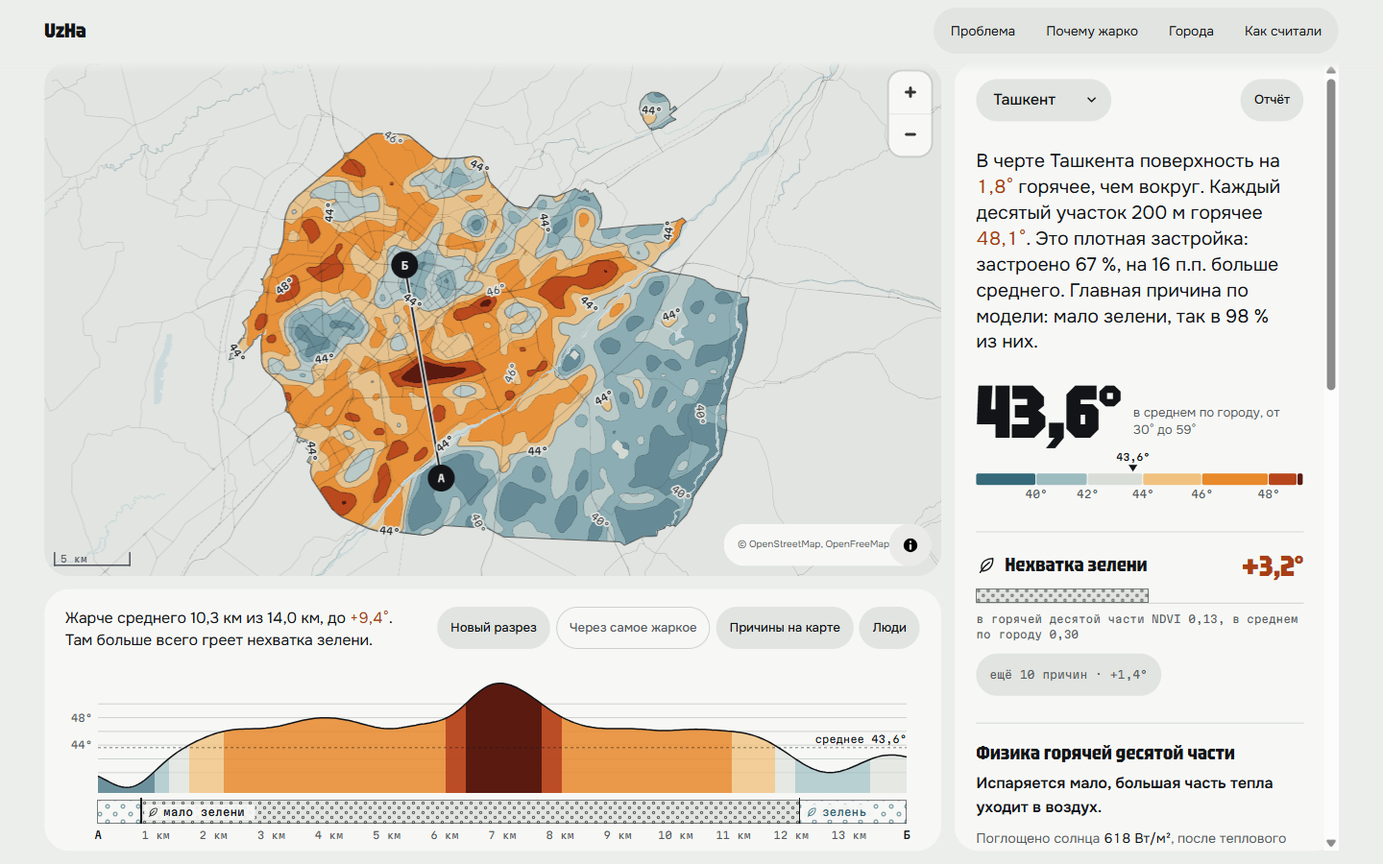
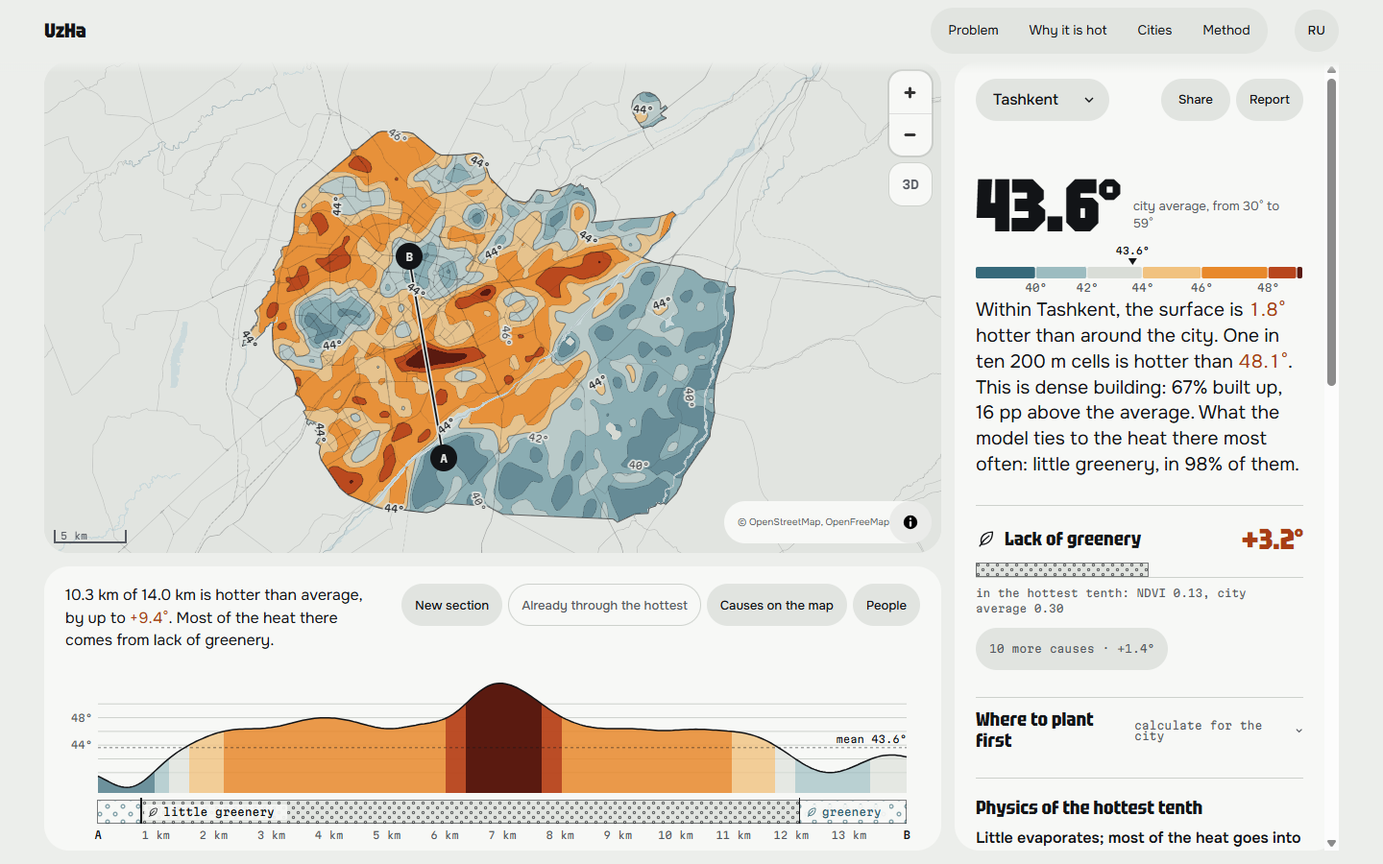
docs: English screenshots of the current site, Russian README in step with the English one

diff --git a/README.ru.md b/README.ru.md
@@ -2,126 +2,190 @@
 
 [English](README.md) · **Русский**
 
-Карта летнего перегрева Ташкента, Самарканда и Бухары по спутниковым снимкам Landsat 8/9 (NASA/USGS). Для каждого участка 200 × 200 м
-показывает, насколько там горячо, что именно греет это место и что с этим можно сделать, а в 3D показывает город, где каждый дом
-окрашен температурой поверхности под ним. Ползунки «что если» пересчитывают температуру участка той же моделью прямо в браузере.
+**Команда:** UzHa · **Задача:** Urban Heat Islands of Tashkent (Uzspace Hackathon 2026, GIS & AI)
 
 **Сайт:** https://uzha.mydevbox.xyz
 
-![Главная](docs/screenshots/00-landing.png)
+**Как посмотреть демо** (две минуты):
+1. Откройте https://uzha.mydevbox.xyz/map/tashkent?lang=ru и нажмите на любое цветное место на карте.
+2. На панели справа подвигайте ползунки «Что если»: модель города пересчитает это место.
+3. Нажмите «Весь город», затем «Где сажать первым»: пять мест, каждое открывается на карте.
+
+Карта летнего перегрева поверхности Ташкента; Самарканд и Бухара показывают, что метод переносится на другие города. Для каждого
+участка 200 × 200 м видно, насколько горячая поверхность, какие факторы греют или охлаждают это место и на сколько градусов,
+и что здесь можно сделать. Ползунки «Что если» пересчитывают температуру места моделью самого города прямо в браузере,
+«Где сажать первым» ранжирует места по охлаждению × числу жителей, а 3D окрашивает около 660 тыс. зданий
+температурой поверхности под ними.
+
+![Главная](docs/screenshots/00-landing-ru.png)
 
 ## Что получилось
 
-Поверхность внутри черты города летом горячее, чем в кольце вокруг:
+Внутри черты города поверхность летом горячее, чем в кольце вокруг:
 
-| | Остров тепла | При кольце 0,5 / 1 / 1,5 км | Средняя поверхность в черте города | Модель объясняет разброса (R² на блоках, которых не видела) |
+| | Остров тепла | При кольце 0,5 / 1 / 1,5 км | Средняя поверхность в черте города | Доля объяснённого разброса (R² на блоках, которых модель не видела) |
 |---|---|---|---|---|
-| Ташкент | +1,8° | +1,3 / +1,5 / +1,8° | 43,9° | 79 % |
-| Самарканд | +1,4° | +1,2 / +1,2 / +1,4° | 43,4° | 77 % |
-| Бухара | +3,1° | +2,9 / +3,0 / +3,1° | 42,7° | 69 % |
+| Ташкент | +1,8 °C | +1,3 / +1,5 / +1,8 °C | 43,9 °C | 79 % |
+| Самарканд | +1,4 °C | +1,2 / +1,2 / +1,4 °C | 43,4 °C | 77 % |
+| Бухара | +3,1 °C | +2,9 / +3,0 / +3,1 °C | 42,7 °C | 69 % |
 
-Остров тепла: медиана участков в черте города минус медиана кольца вокруг. Знак и порядок числа не зависят от ширины кольца.
+Остров тепла: медиана участков в черте города минус медиана кольца вокруг. Знак и величина не зависят от ширины кольца.
 
-Самый сильный отдельный фактор во всех трёх городах — NDVI. В Самарканде застройка идёт почти вровень
-(37 % против 39 % у растительности и грунта). Если сложить вклады связанных факторов в группы, на растительность
-и грунт приходится 39–64 % среднего вклада по участкам в черте города, на застройку 21–37 %. Но горячие места у городов разные. В Ташкенте это плотная
-застройка без деревьев. В Самарканде открытая, почти незастроенная земля. В Бухаре застройка вперемешку с голым грунтом.
+Самый сильный отдельный фактор во всех трёх городах — NDVI; в Самарканде застройка почти вровень с ним (37 % против 39 %
+у растительности и грунта). Если сложить связанные факторы в группы, на растительность и голый грунт приходится 39–64 %
+среднего вклада в черте города, на застройку 21–37 %. Горячие места у городов разные: в Ташкенте плотная застройка без деревьев,
+в Самарканде открытая, почти незастроенная земля, в Бухаре застройка вперемешку с голым грунтом.
 
-Это температура самой поверхности по снимкам около 11 утра, а не температура воздуха.
+Это температура самой поверхности около 11:00 по спутниковым снимкам, а не температура воздуха.
 
-Сверка с NASA MODIS (MYD11A2, 1 км, то же лето): рисунок совпадает с r = 0,85 / 0,61 / 0,81, средняя разница
-+0,4 / −0,6 / −0,7°. MODIS с шагом 1 км тоже ставит город выше кольца 1,5 км: днём +2,0 / +1,6 / +2,1° (Terra)
-и +2,3 / +2,0 / +2,5° (Aqua), ночью (Aqua, около 01:30) +2,4 / +1,2 / +1,8°. Значит, +1,8° Ташкента не артефакт Landsat.
-В Самарканде и Бухаре ночной остров меньше дневного.
+**Сверка с NASA MODIS** (1 км, те же лета, Ташкент / Самарканд / Бухара):
+
+| | Пролёт | Совпадение рисунка, r | Средняя разница, наша минус MODIS | RMSE |
+|---|---|---|---|---|
+| Terra (MOD11A2) | ~10:30, ближе к ~11:00 Landsat | 0,87 / 0,65 / 0,87 | +4,4 / +3,2 / +3,3 °C | 4,7 / 3,8 / 3,7 °C |
+| Aqua (MYD11A2) | ~13:30 | 0,85 / 0,61 / 0,81 | +0,4 / −0,6 / −0,7 °C | 1,7 / 2,1 / 1,8 °C |
+
+Главная метрика — r: она показывает, находим ли мы жару в тех же местах. Абсолютный уровень у продуктов расходится по известным
+причинам: излучательная способность, 30 м Landsat против 1 км MODIS, угол съёмки и время суток.
+
+MODIS с шагом 1 км тоже ставит город выше кольца 1,5 км: днём +2,0 / +1,6 / +2,1 °C (Terra) и +2,3 / +2,0 / +2,5 °C
+(Aqua), ночью (Aqua, около 01:30) +2,4 / +1,2 / +1,8 °C. Значит, +1,8 °C Ташкента не артефакт Landsat. В Самарканде
+и Бухаре ночной остров меньше дневного.
 Команда: `PYTHONUTF8=1 python -m pipeline.validate --all --web`.
 
-На самых горячих участках, в горячих 10 % участков, в черте города живут около 313 тыс. человек в Ташкенте, 55 тыс. в Бухаре
-и около 7 тыс. в Самарканде. Кольцо вокруг города сюда не входит. В Самарканде самые горячие участки почти без жилья:
-это пустая открытая земля, поэтому цифра маленькая.
-Это оценка WorldPop 2025: модель по переписи и застройке, а не подсчёт людей.
+**Люди в жаре.** В самых горячих 10 % участков в черте города живут около 313 тыс. человек в Ташкенте, 55 тыс. в Бухаре
+и около 7 тыс. в Самарканде. В Самарканде самые горячие участки — в основном пустая открытая земля, поэтому число маленькое.
+Население — модель WorldPop 2025 (перепись плюс застройка), а не подсчёт людей.
+
+**Где сажать первым.** Одно и то же озеленение на каждом жилом участке 200 м: кроны деревьев плюс трава и полив, то есть
++20 п.п. кроны и +0,1 NDVI (не выше 95-го перцентиля города), через модель города. В Ташкенте модель даёт первым пяти местам
+поверхность на 2,6–3,7 °C прохладнее, примерно для 1,2–1,4 тыс. жителей каждое. Порядок — охлаждение × жители, а не то, насколько
+участок горячий сегодня: первое место, у Малой кольцевой, — средний квартал (43,5 °C; среднее в черте города 43,9 °C) с низким
+NDVI (0,14) и примерно 1 300 жителями. Там: только кроны −0,5 °C, только NDVI −3,1 °C, вместе −3,7 °C (поверхность 43,5 → 39,9 °C).
+
+На поверхности основная часть эффекта видна через зелень (NDVI), а не через кроны. Обследование 30 зелёных скверов Ташкента
+(Mukhamedjanov et al., 2024) показало, что сильнее всего охлаждает площадь крон, а газоны почти нет; но там мерили воздух
+на высоте 1,5 м между 12:00 и 15:00. Мы картируем поверхность около 11:00: политая трава охлаждает поверхность испарением,
+кроны охлаждают воздух тенью. К тому же ESA WorldCover относит каждый пиксель 10 м к его основному классу, поэтому узкие ряды
+уличных деревьев могут попасть в застройку; их листва тогда видна в NDVI, а не в доле деревьев.
 
 ## Как пользоваться
 
-![Карта Ташкента: изотермы и разрез](docs/screenshots/01-city.png)
+![Ташкент: изотермы и разрез](docs/screenshots/01-city-ru.png)
 
-- Цвет означает только градусы, линии проведены через каждые 2°.
-- Щелчок по месту показывает его температуру, главную причину и меру, которая подходит именно здесь.
-- Линия А–Б строит разрез: профиль температуры и полосу причин под ним. Причины нарисованы штриховкой.
-- «Люди» показывает точками, сколько человек живёт на участке, и значками школы, детские сады и поликлиники
-  на самых горячих участках. Цвет при этом остаётся только температурой.
-- «3D» наклоняет карту и поднимает дома: около 660 тыс. зданий трёх городов, каждое в цвете температуры поверхности под ним.
-- «Что если» на панели участка: больше деревьев и зелени, светлые крыши, меньше застройки. Модель города пересчитывает
-  температуру поверхности этого места. Ползунки не выходят за то, что в городе уже есть (5–95 % участков), застройку можно
-  уменьшить не больше чем на 25 п.п.
-- «Отчёт» собирает страницу для печати. Данные города можно скачать в CSV или GeoJSON.
+- Цвет означает только градусы; изотермы через каждые 2 °C.
+- Нажмите на место: его температура, главная причина и мера, которая подходит именно здесь.
+- Линия А–Б строит разрез: профиль температуры и полосу причин под ним (штриховкой).
+- «Люди» показывает жителей точками, а школы, детские сады и поликлиники — на самых горячих участках. Цвет остаётся температурой.
+- «3D» наклоняет карту и поднимает дома, каждый в цвете температуры поверхности под ним.
+- «Что если» у места: больше крон и зелени (NDVI), светлее крыши, а там, где это место греют застройка или дороги, — меньше их.
+  Модель города пересчитывает температуру поверхности этого места. Ползунки не выходят за то, что в городе уже есть
+  (5–95 % участков); застройку можно уменьшить не больше чем на 25 п.п.
+- «Где сажать первым» на виде всего города: пять мест, каждое открывается на карте со своим «Что если».
+- «Поделиться» кладёт место и вид 3D в ссылку. «Отчёт» собирает страницу для печати; данные города скачиваются в CSV или GeoJSON.
 
-![Разрез и причины](docs/screenshots/03-transect.png)
+Скриншоты интерфейса на английском — в [README.md](README.md#how-to-use-it). На телефоне:
 
-На телефоне:
-
-<img src="docs/screenshots/04-mobile.png" width="320" alt="Главная на телефоне">
+<img src="docs/screenshots/05-mobile-ru.png" width="300" alt="Карта на телефоне">
 
 ## Как посчитано
 
 1. Сетка 200 м в зоне UTM города, граница города из OpenStreetMap и кольцо 1,5 км вокруг.
-2. Температура поверхности: медиана безоблачных снимков Landsat 8/9 (NASA/USGS, Collection 2 Level-2),
-   июнь–август 2023–2025.
-3. Факторы: зелень (NDVI) и альбедо по Sentinel-2, доли деревьев, застройки и голого грунта по ESA WorldCover,
-   высота по Copernicus DEM, дороги, здания и вода из OpenStreetMap.
-4. Модель XGBoost. Точность проверена на целых блоках 2 × 2 км, которых модель не видела.
-5. Вклад каждого фактора в каждом участке считается через SHAP, в градусах.
-6. Проверка: остров тепла при кольце 0,5 / 1 / 1,5 км, группы связанных факторов и сверка с NASA MODIS днём и ночью
-   (`PYTHONUTF8=1 python -m pipeline.validate --all --web`).
-7. Здания для 3D: контуры OpenStreetMap и Microsoft ML Building Footprints, высота из OSM, а где её нет, по модели
-   как в проекте Soya (форма, тип, соседи, GHSL Built-H). Средняя ошибка на отложенных зданиях: Ташкент 3,9 м, Самарканд 1,4 м,
-   Бухара 2,4 м (`python -m pipeline.buildings`, файлы `web/public/data/buildings/<город>.fgb`).
-8. Модель каждого города выгружена компактным JSON для «что если»; браузер считает так же, как XGBoost (расхождение меньше 0,0001°).
+2. Температура поверхности: медиана безоблачных снимков Landsat 8/9 (NASA/USGS, Collection 2 Level-2), июнь–август 2023–2025.
+3. Факторы: зелень (NDVI) и альбедо по Sentinel-2; доли деревьев, застройки и голого грунта по ESA WorldCover;
+   высота по Copernicus DEM; дороги, здания и вода из OpenStreetMap.
+4. Модель XGBoost для каждого города. Точность измерена на целых блоках 2 × 2 км, исключённых из обучения
+   (пространственная кросс-валидация).
+5. Вклад каждого фактора в каждом участке в °C — через SHAP.
+6. Проверки: остров тепла при кольце 0,5 / 1 / 1,5 км, группы связанных факторов, NASA MODIS Terra и Aqua днём и ночью.
+7. Здания для 3D: контуры из OpenStreetMap и Microsoft ML Building Footprints; высота из OSM, иначе по модели
+   (форма, тип, соседи, GHSL Built-H). Средняя ошибка на отложенных зданиях: Ташкент 3,9 м, Самарканд 1,4 м, Бухара 2,4 м.
+8. Модель каждого города выгружена компактным JSON для «Что если»; браузер считает её так же, как XGBoost
+   (расхождение меньше 0,0001 °C, есть тест).
 
 Подробнее: [pipeline/README.md](pipeline/README.md), формат данных: [docs/data-contract.md](docs/data-contract.md),
 зачем это нужно: [docs/problem.md](docs/problem.md).
 
-Ограничения. Landsat снимает около 11 утра; ночной остров тепла оценён только по MODIS с шагом 1 км. Вклад факторов
-и «что если» показывают связь, найденную моделью, а не результат эксперимента. Высоту большинства домов модель оценивает
-по форме и соседям, для отдельного дома это оценка. У Microsoft нет контуров по Бухаре, там дома только из OSM.
-Эффект мер оценён по опубликованным исследованиям, ссылки есть прямо в карточках.
+**Ограничения.** Landsat снимает около 11:00; ночной остров тепла оценён только по MODIS с шагом 1 км. Вклады факторов
+и «Что если» показывают связь, найденную моделью, а не результат эксперимента. Высота большинства зданий смоделирована,
+для отдельного дома это оценка. У Microsoft нет контуров по Бухаре, там только здания OSM.
+Эффект мер взят из опубликованных исследований, ссылки есть в карточках.
+
+## Источники данных
+
+| Данные | Источник | Для чего |
+|---|---|---|
+| Температура поверхности | [Landsat 8/9 Collection 2 Level-2](https://planetarycomputer.microsoft.com/dataset/landsat-c2-l2), NASA/USGS | целевая переменная |
+| NDVI, альбедо | [Sentinel-2 L2A](https://planetarycomputer.microsoft.com/dataset/sentinel-2-l2a), ESA Copernicus | факторы |
+| Покрытие земли | [ESA WorldCover 10 м](https://planetarycomputer.microsoft.com/dataset/esa-worldcover) | деревья, застройка, голый грунт |
+| Рельеф | [Copernicus DEM GLO-30](https://planetarycomputer.microsoft.com/dataset/cop-dem-glo-30) | фактор |
+| Дороги, здания, вода, границы, учреждения | [OpenStreetMap](https://www.openstreetmap.org) | факторы, карта |
+| Контуры зданий | [Microsoft ML Building Footprints](https://github.com/microsoft/GlobalMLBuildingFootprints) | 3D |
+| Высота зданий | [GHSL Built-H](https://human-settlement.emergency.copernicus.eu/) | модель высоты для 3D |
+| Население | [WorldPop](https://www.worldpop.org) 2025 | люди в жаре, порядок посадки |
+| Проверка | NASA MODIS [MOD11A2](https://lpdaac.usgs.gov/products/mod11a2v061/) (Terra) и [MYD11A2](https://lpdaac.usgs.gov/products/myd11a2v061/) (Aqua), день и ночь | сверка |
+| Погода | ERA5 (Copernicus) через [Open-Meteo](https://open-meteo.com) | ветер, влажность, солнце |
+| Подложка | [OpenFreeMap](https://openfreemap.org) | тайлы карты |
+
+Все источники открытые; ключи API не нужны.
 
 ## Запуск
 
-Сайт (статический, без бэкенда):
+**Сайт** (статический, без бэкенда; Node 20+):
 
 ```bash
 cd web
 npm ci
 npm run dev        # http://localhost:5173
-npm test
+npm test           # юнит-тесты (Vitest)
 npm run build      # результат в web/dist
+```
+
+JSON городов и модели уже лежат в `web/public/data/`, так что сайт работает без пайплайна. Файлы зданий
+`.fgb` (около 140 МБ) в git не входят; без них 3D показывает дома подложки. Чтобы получить их без пайплайна,
+скачайте опубликованные:
+
+```bash
+mkdir -p web/public/data/buildings
+for c in tashkent samarkand bukhara; do
+  curl -o web/public/data/buildings/$c.fgb https://uzha.mydevbox.xyz/data/buildings/$c.fgb
+done
 ```
 
 Команды для bash или Git Bash. В PowerShell задайте `$env:PYTHONUTF8=1` и используйте `curl.exe`.
 
-Пересчёт данных (Python 3.10+, ключи не нужны):
+**Пайплайн данных** (Python 3.10+, без ключей):
 
 ```bash
 pip install -r pipeline/requirements.txt
-PYTHONUTF8=1 python -m pipeline.run --all        # карта, модель и model-<город>.json; или --city tashkent
+PYTHONUTF8=1 python -m pipeline.run --all              # карта, модель и model-<город>.json; или --city tashkent
 PYTHONUTF8=1 python -m pipeline.validate --all --web   # сверка с MODIS, ночь, кольца
-PYTHONUTF8=1 python -m pipeline.buildings        # здания для 3D (скачивает выгрузку OSM и контуры Microsoft)
-python -m pytest pipeline/tests -q
+PYTHONUTF8=1 python -m pipeline.buildings              # здания для 3D (скачивает OSM и контуры Microsoft)
+python -m pytest pipeline/tests -q                     # 92 теста, около минуты
 ```
 
-Готовые JSON городов и модели лежат в `web/public/data/`, так что для сайта пайплайн запускать не обязательно. Файлы
-зданий `.fgb` (около 140 МБ) в git не входят: без них 3D показывает дома подложки OpenFreeMap.
-Хостинг описан в [docs/deploy.md](docs/deploy.md).
+Пайплайн читает Landsat и Sentinel-2 из Microsoft Planetary Computer и кеширует каждый слой в `pipeline/cache/`.
+Первый прогон Ташкента занимает примерно 10–20 минут, в основном чтение Sentinel-2; повторный с кешем — около минуты.
+`pipeline.buildings` скачивает выгрузку Geofabrik по Узбекистану (~130 МБ), контуры Microsoft (~45 МБ на тайл) и тайл
+GHSL. Подробнее: [pipeline/README.md](pipeline/README.md).
 
-## Стек
+Хостинг: [docs/deploy.md](docs/deploy.md).
 
-Python, rasterio, XGBoost, scikit-learn, GDAL, Microsoft Planetary Computer · Vite, React, TypeScript, MapLibre GL,
-FlatGeobuf, d3-contour, Vitest · nginx и Cloudflare Tunnel.
+## Зависимости
 
-## Участие
-
-Как устроена работа с кодом и git: [CONTRIBUTING.md](CONTRIBUTING.md).
+- **Пайплайн:** Python 3.10+, numpy, pandas, scipy, rasterio, pyproj, shapely, pyogrio, pystac-client, planetary-computer,
+  xgboost, scikit-learn, requests, pytest (`pipeline/requirements.txt`).
+- **Сайт:** Node 20+, React 18, TypeScript 5.6, Vite 5, MapLibre GL 6, FlatGeobuf, d3-contour, Vitest (`web/package.json`).
+- **Хостинг:** nginx и Cloudflare Tunnel.
 
 ## Команда
 
-Амира, Олия, Максим, Шахина, Степан.
+| Участник | Роль |
+|---|---|
+| Степан | РОЛЬ |
+| Амира | РОЛЬ |
+| Олия | РОЛЬ |
+| Максим | РОЛЬ |
+| Шахина | РОЛЬ |
+
+Как устроена работа с кодом и git: [CONTRIBUTING.md](CONTRIBUTING.md).

diff --git a/README.md b/README.md
@@ -8,7 +8,7 @@
 
 **How to view the demo** (two minutes):
 1. Open https://uzha.mydevbox.xyz/map/tashkent and click any coloured place on the map.
-2. In the panel on the right open "What if" and move the sliders: the city model recalculates that place.
+2. In the panel on the right move the "What if" sliders: the city model recalculates that place.
 3. Click "Whole city", then "Where to plant first": five places, each opens on the map.
 
 A map of summer surface overheating in Tashkent, with Samarkand and Bukhara as a check that the method transfers. For every
@@ -80,13 +80,19 @@ up in NDVI rather than in the tree share.
 - Line A–B draws a cross-section: the temperature profile and a band of causes under it (hatched).
 - "People" shows residents as dots, and schools, kindergartens and clinics on the hottest cells. Colour stays temperature.
 - "3D" tilts the map and raises the buildings, each coloured by the surface temperature under it.
-- "What if" on a place: more tree crown and greenery (NDVI), lighter roofs, less built-up. The city model recomputes the surface
-  temperature of that place. Sliders stay within what the city already has (5–95 % of cells); built-up can drop by at most
-  25 percentage points.
+- "What if" on a place: more tree crown and greenery (NDVI), lighter roofs, and, where built-up land or roads heat that place,
+  less of them. The city model recomputes the surface temperature of that place. Sliders stay within what the city already has
+  (5–95 % of cells); built-up can drop by at most 25 percentage points.
 - "Where to plant first" on the city view: five places, each opens on the map with its own "what if".
 - "Share" puts the place and the 3D view into the link. "Report" builds a printable page; city data downloads as CSV or GeoJSON.
 
-![Cross-section and causes](docs/screenshots/03-transect.png)
+| Where to plant first | What if, place 1 |
+|---|---|
+| ![Where to plant first: five places ranked by cooling × residents](docs/screenshots/02-plant-first.png) | ![What if: crowns +20 pp and NDVI +0.1 give −3.7 °C](docs/screenshots/03-what-if.png) |
+
+| 3D buildings | On a phone |
+|---|---|
+| ![3D: buildings coloured by the surface temperature under them](docs/screenshots/04-3d.png) | <img src="docs/screenshots/05-mobile.png" width="300" alt="The map on a phone"> |
 
 ## Method
 

diff --git a/web/README.md b/web/README.md
@@ -6,9 +6,9 @@
 
 Читает только статические файлы (формат: `../docs/data-contract.md`). Бэкенда нет.
 
-![Главная: живая карта Ташкента](../docs/screenshots/00-landing.png)
+![Главная: живая карта Ташкента](../docs/screenshots/00-landing-ru.png)
 
-![Карта целиком](../docs/screenshots/01-city.png)
+![Карта целиком](../docs/screenshots/01-city-ru.png)
 
 ## Запуск
 
